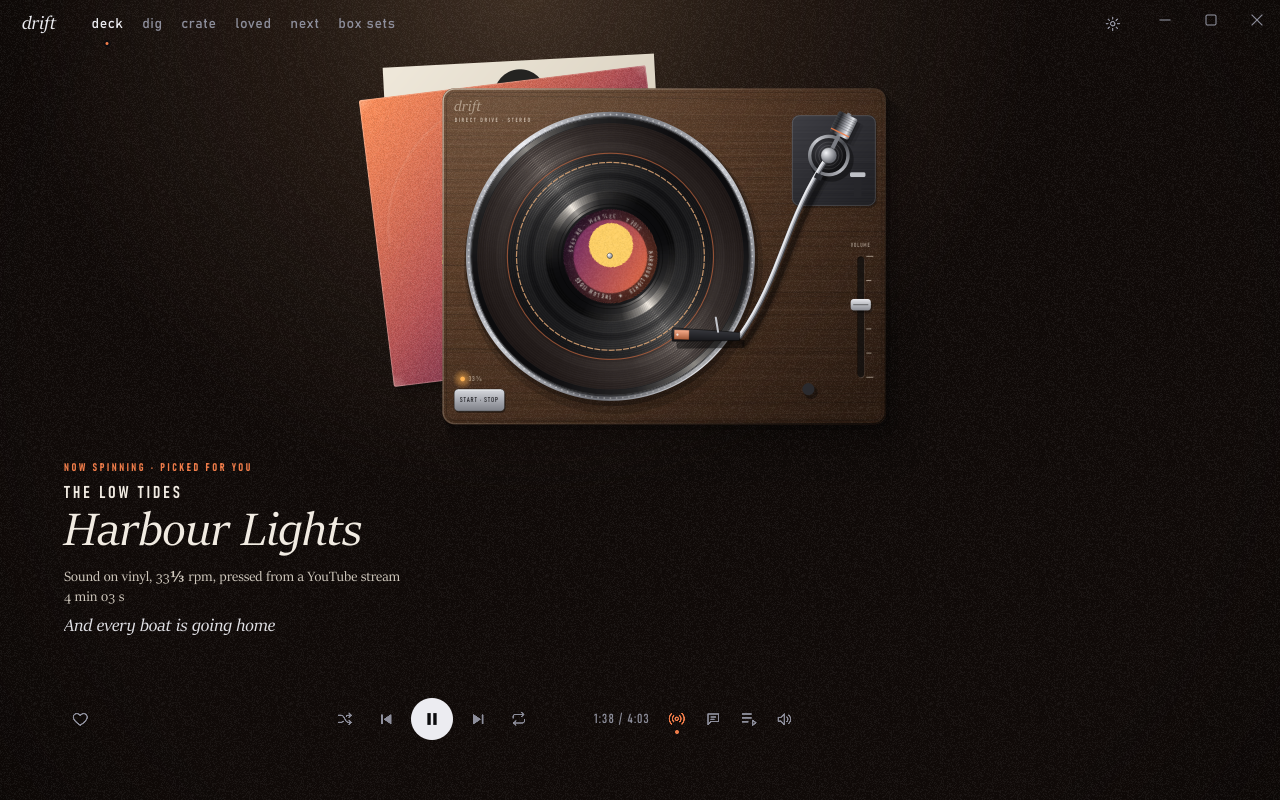
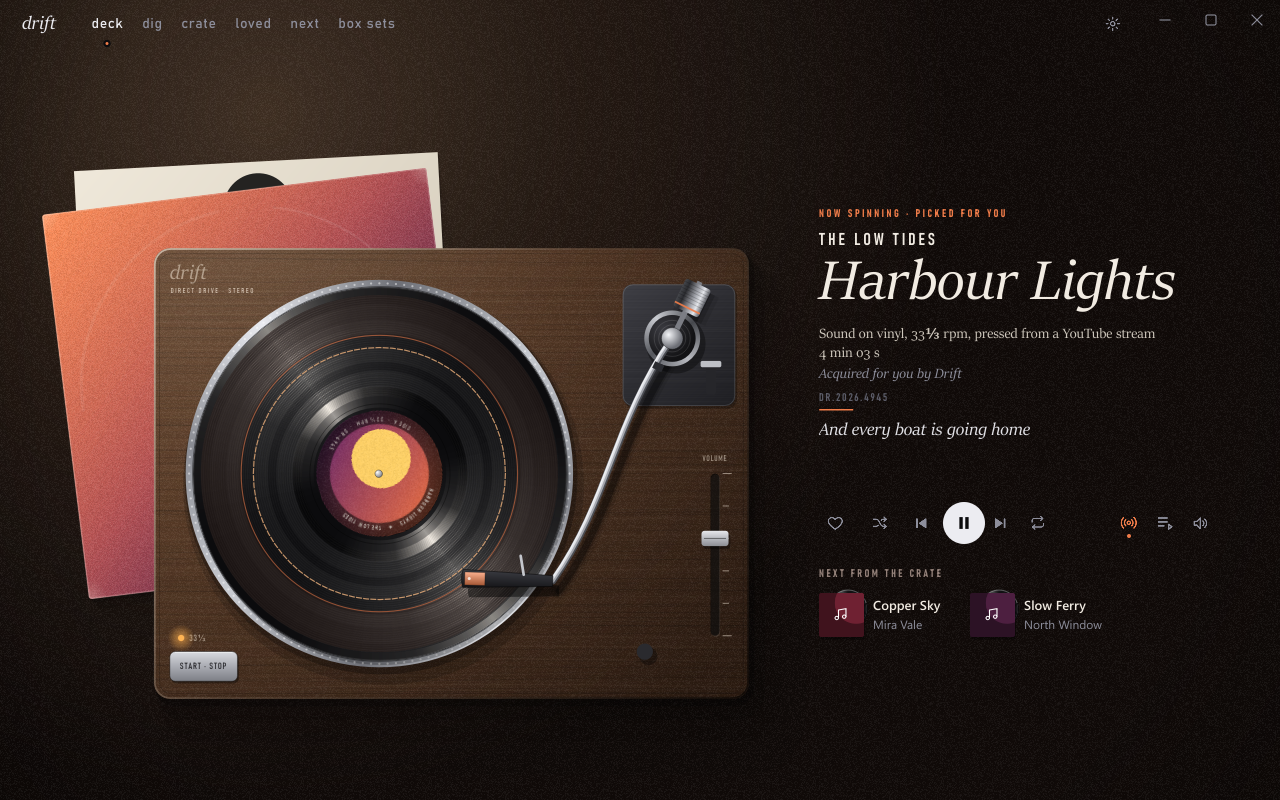
Update from the main repo

diff --git a/drift/ui/widgets.py b/drift/ui/widgets.py
@@ -779,6 +779,8 @@ class Dock(QWidget):
         rw = QWidget()
         rw.setLayout(right)
         rw.setMinimumWidth(150)
+        self.sides = (left, buttons, right)
+        self.row, self.lw = row, lw
         row.addWidget(lw, 3)
         row.addWidget(cw, 0)
         row.addWidget(rw, 3)
@@ -914,6 +916,7 @@ class Dock(QWidget):
         for w in (self.cover, self.title, self.artist):
             w.setVisible(not lake)
         self.col.setContentsMargins(12, 0, 12, 0) if lake else self.col.setContentsMargins(22, 14, 18, 10)
+        self._fit()
         self.update()
 
     def paintEvent(self, e):
@@ -923,13 +926,48 @@ class Dock(QWidget):
         p.setRenderHint(QPainter.RenderHint.Antialiasing)
         self.look.paint_dock(p, self)
 
-    def resizeEvent(self, e):
+    def _fit(self):
         w = self.width()
-        self.volume.setVisible(w > 900)
-        self.lyrics.setVisible(w > 640)
-        self.time.setVisible(w > 720)
-        self.shuffle.setVisible(w > 560)
-        self.repeat.setVisible(w > 560)
+        if self.mode == 'strip':
+            self._centred(True)
+            self.volume.setVisible(w > 900)
+            self.lyrics.setVisible(w > 640)
+            self.time.setVisible(w > 720)
+            self.shuffle.setVisible(w > 560)
+            self.repeat.setVisible(w > 560)
+            return
+        # 'lake' is only the controls: centred if they all fit, else packed after the heart, and only then dropping the
+        # least needed first
+        drop = ((self.volume,), (self.time,), (self.lyrics,), (self.shuffle, self.repeat))
+        for group in drop:
+            for b in group:
+                b.setVisible(True)
+        left, mid, right = self.sides
+        m = self.col.contentsMargins()
+
+        def need(centred):
+            for lay in self.sides:
+                lay.invalidate()
+            lw, rw = left.minimumSize().width(), right.minimumSize().width()
+            sides = 2 * max(170, lw, rw) if centred else lw + rw
+            return sides + mid.minimumSize().width() + 2 * 12 + m.left() + m.right()
+        self._centred(True)
+        if need(True) <= w:
+            return
+        self._centred(False)
+        for group in drop:
+            if need(False) <= w:
+                break
+            for b in group:
+                b.setVisible(False)
+
+    def _centred(self, on):
+        self.lw.setMinimumWidth(170 if on else 0)
+        self.row.setStretch(0, 3 if on else 0)
+        self.row.setStretch(2, 3 if on else 1)
+
+    def resizeEvent(self, e):
+        self._fit()
         if self.engine.current and self.mode == 'strip':
             self.show_track(self.engine.current)
         super().resizeEvent(e)

diff --git a/drift/ui/sketches/vinyl.py b/drift/ui/sketches/vinyl.py
@@ -1010,15 +1010,18 @@ class Turntable(QWidget):
         W, H = max(1, self.width()), max(1, self.height())
         pad = max(24, int(W * 0.05))
         self.g = g = {'W': W, 'H': H, 'pad': pad}
-        dw = min((H - TOP - 64) * RATIO, W * 0.6)
-        wide = W >= H * 1.05 and W - dw - pad * 2.1 >= 400      # the wall label needs room beside the deck
+        # One look per window shape: every landscape window has the deck on the left and the wall label beside it (the
+        # label column always wide enough for the whole player); only tall or half-screen windows stack.
+        label_w = min(620, max(420, W * 0.36))
+        wide = W >= H * 1.15 and W >= 1000
         g['wide'] = wide
         if self.calm:
             dh = min(H - TOP - 150, (W - 2 * pad) / RATIO)
             rect = QRectF((W - dh * RATIO) / 2, TOP + max(10, (H - TOP - 120 - dh) / 2), dh * RATIO, dh)
             info = QRectF(pad, rect.bottom() + 30, W - 2 * pad, H - rect.bottom() - 40)
         elif wide:                                   # room up and to the left for the sleeve on the desk
-            dw = min((H - TOP - 40) / 1.25 * RATIO, W * 0.5)
+            by_width = (W - pad * 2.1 - label_w) / (1 + 0.2 / RATIO)      # what is left beside the label column
+            dw = min((H - TOP - 40) / 1.25 * RATIO, by_width)
             dh = dw / RATIO
             rect = QRectF(pad + dh * 0.2, TOP + (H - TOP - dh) / 2 + dh * 0.11, dw, dh)
             out = SLEEVE_OUT
